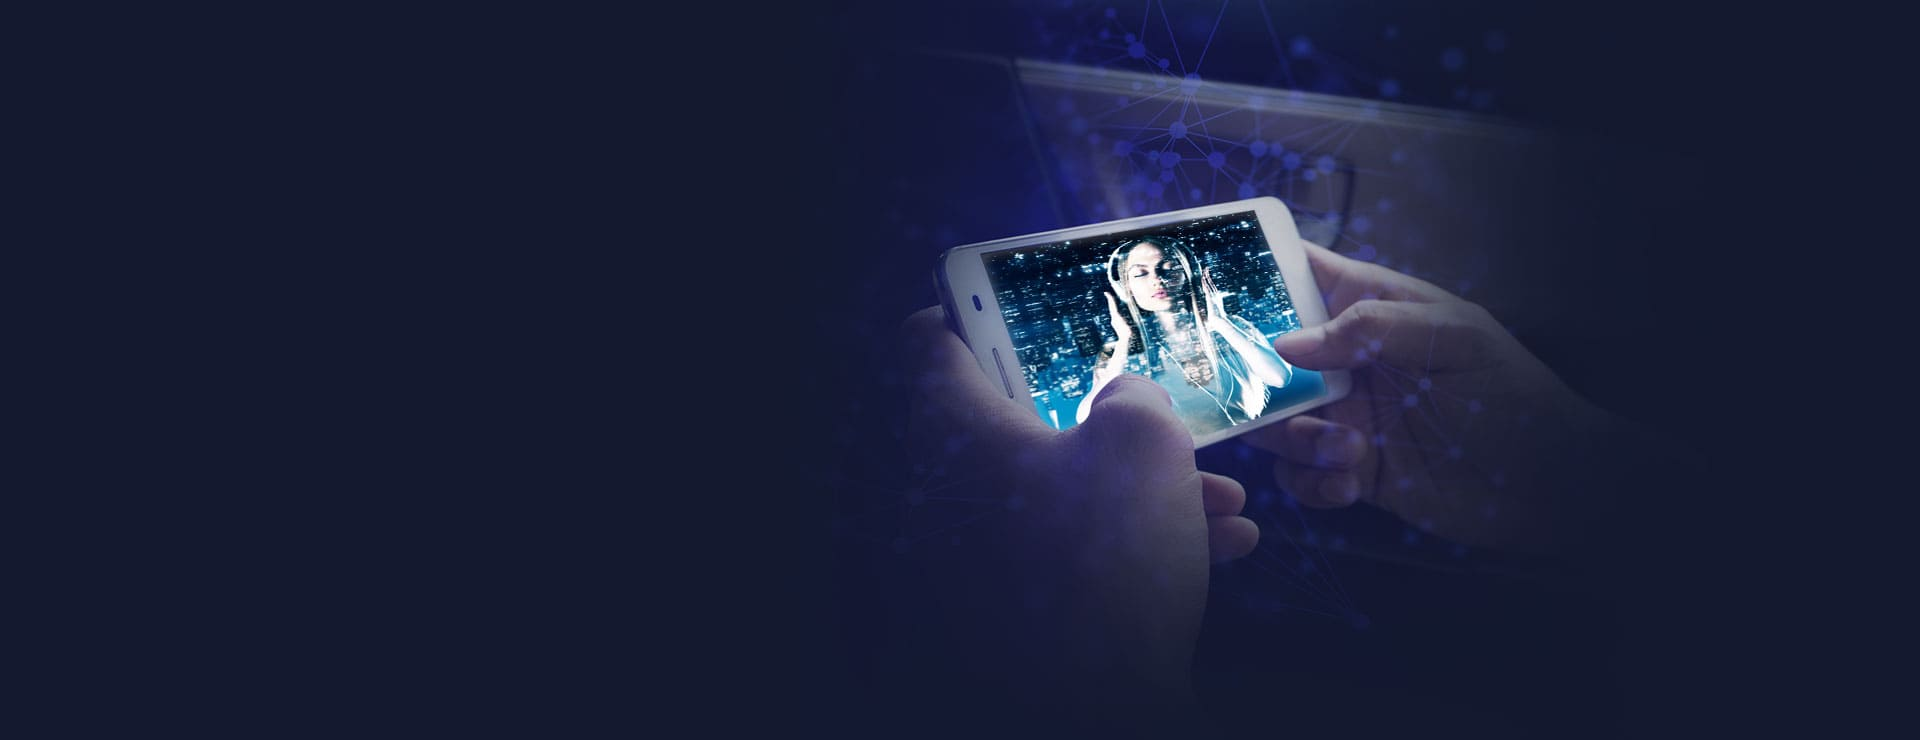
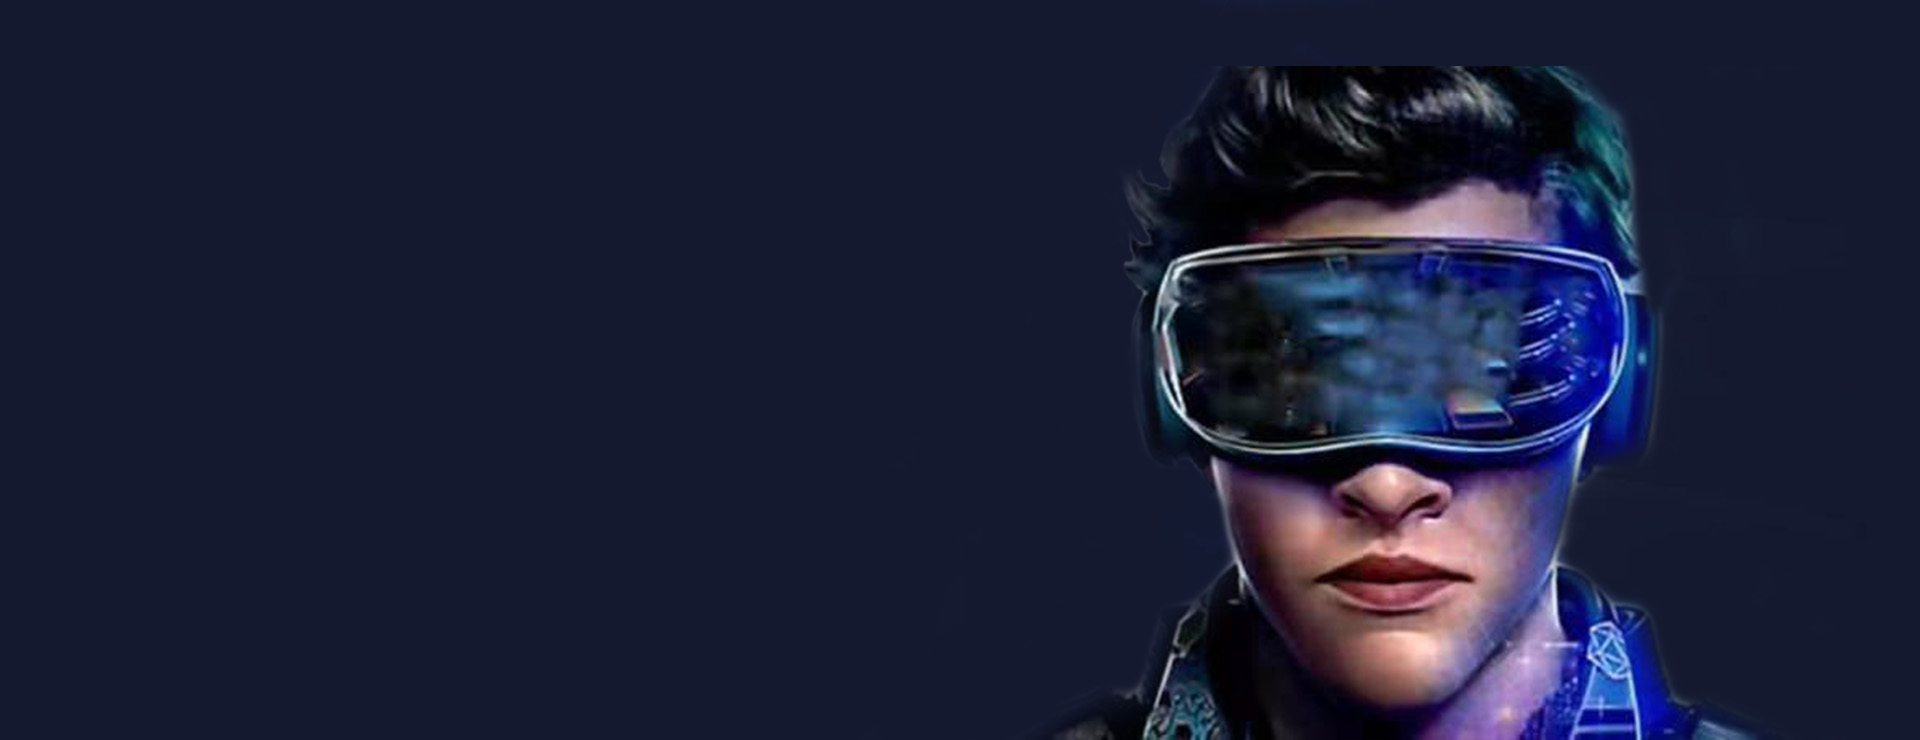
src

Changed region(s): [[0.4688, 0.0, 0.9375, 1.0]]

diff --git a/glasses/index.html b/glasses/index.html
@@ -95,7 +95,7 @@
 		<div class="width-1220" style="color: #000;">
 			<h1 class="wow fadeInUpa" style="visibility: visible; animation-name: fadeInUpa;">智能眼镜</h1>
 			<p class="wow fadeInUpa" data-wow-delay=".2s"
-				style="visibility: visible; animation-delay: 0.2s; animation-name: fadeInUpa;">产品的智能化、数字化和时尚性</p>
+				style="visibility: visible; animation-delay: 0.2s; animation-name: fadeInUpa;"> &nbsp;&nbsp;眼镜式微型人工智能图像、语音识别和信息显<span style="color: #fff">示设备</span></p>
 		</div>
 	</section>
 	<!--二级页面导航-->
